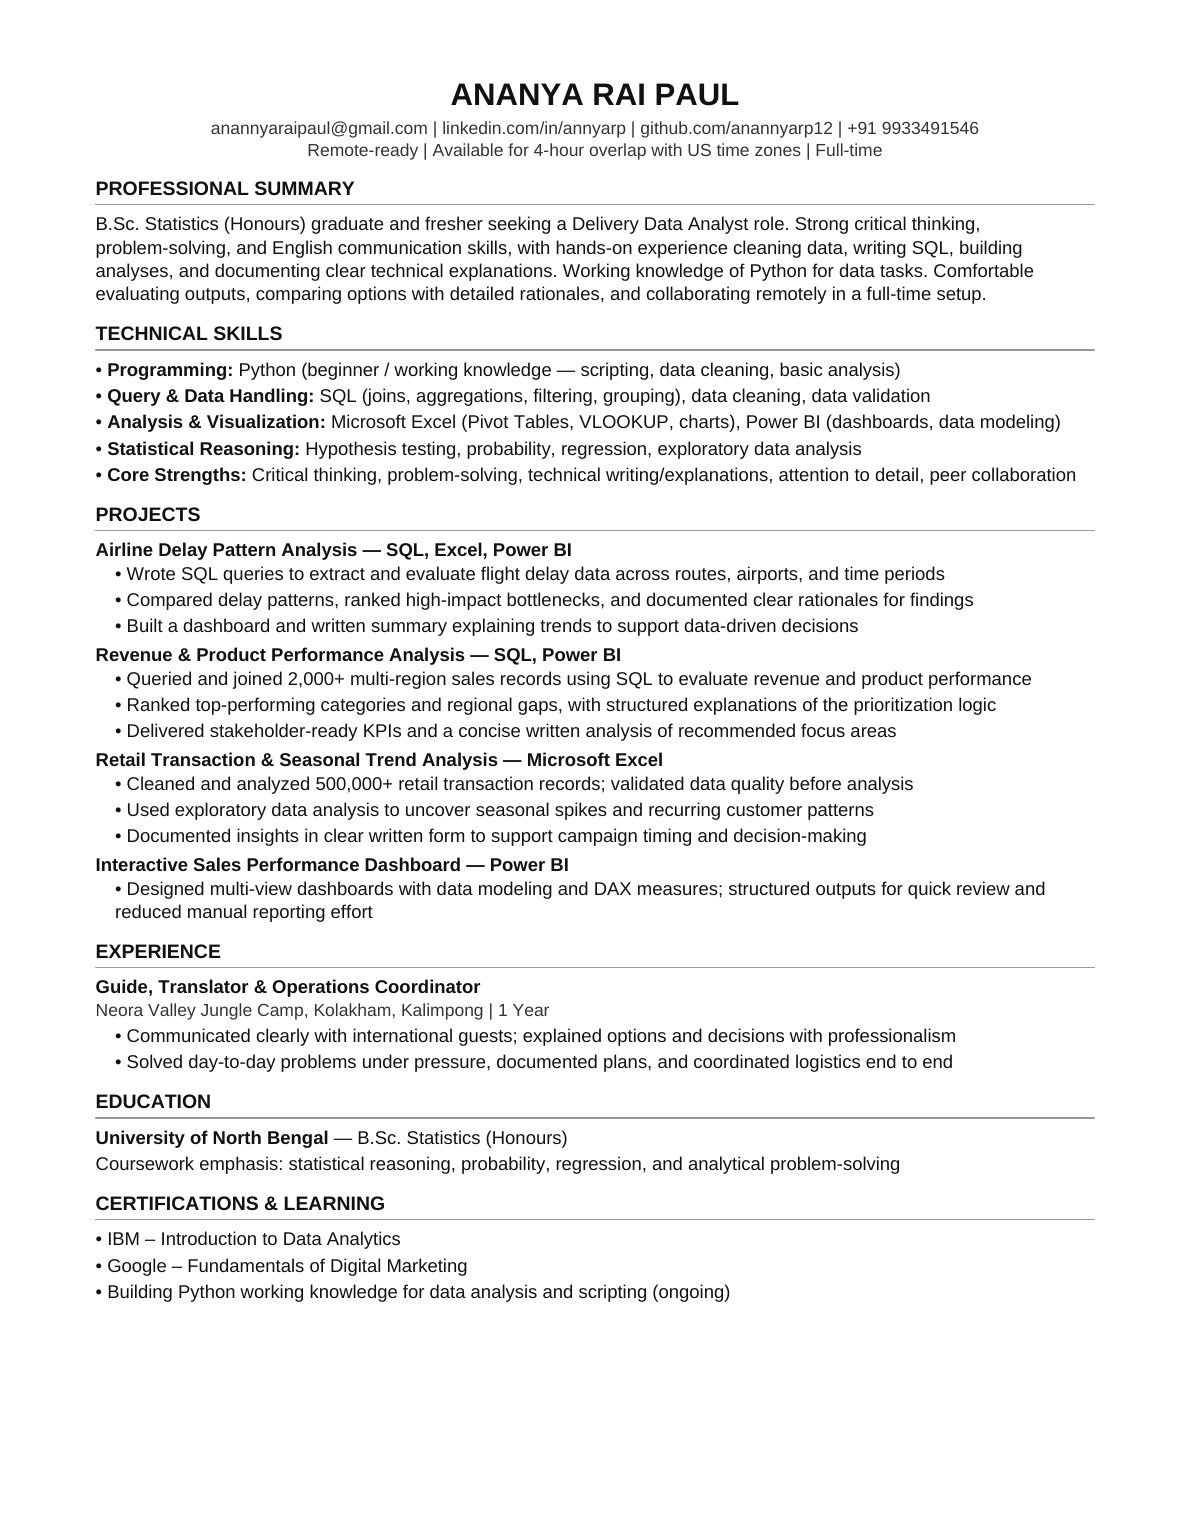
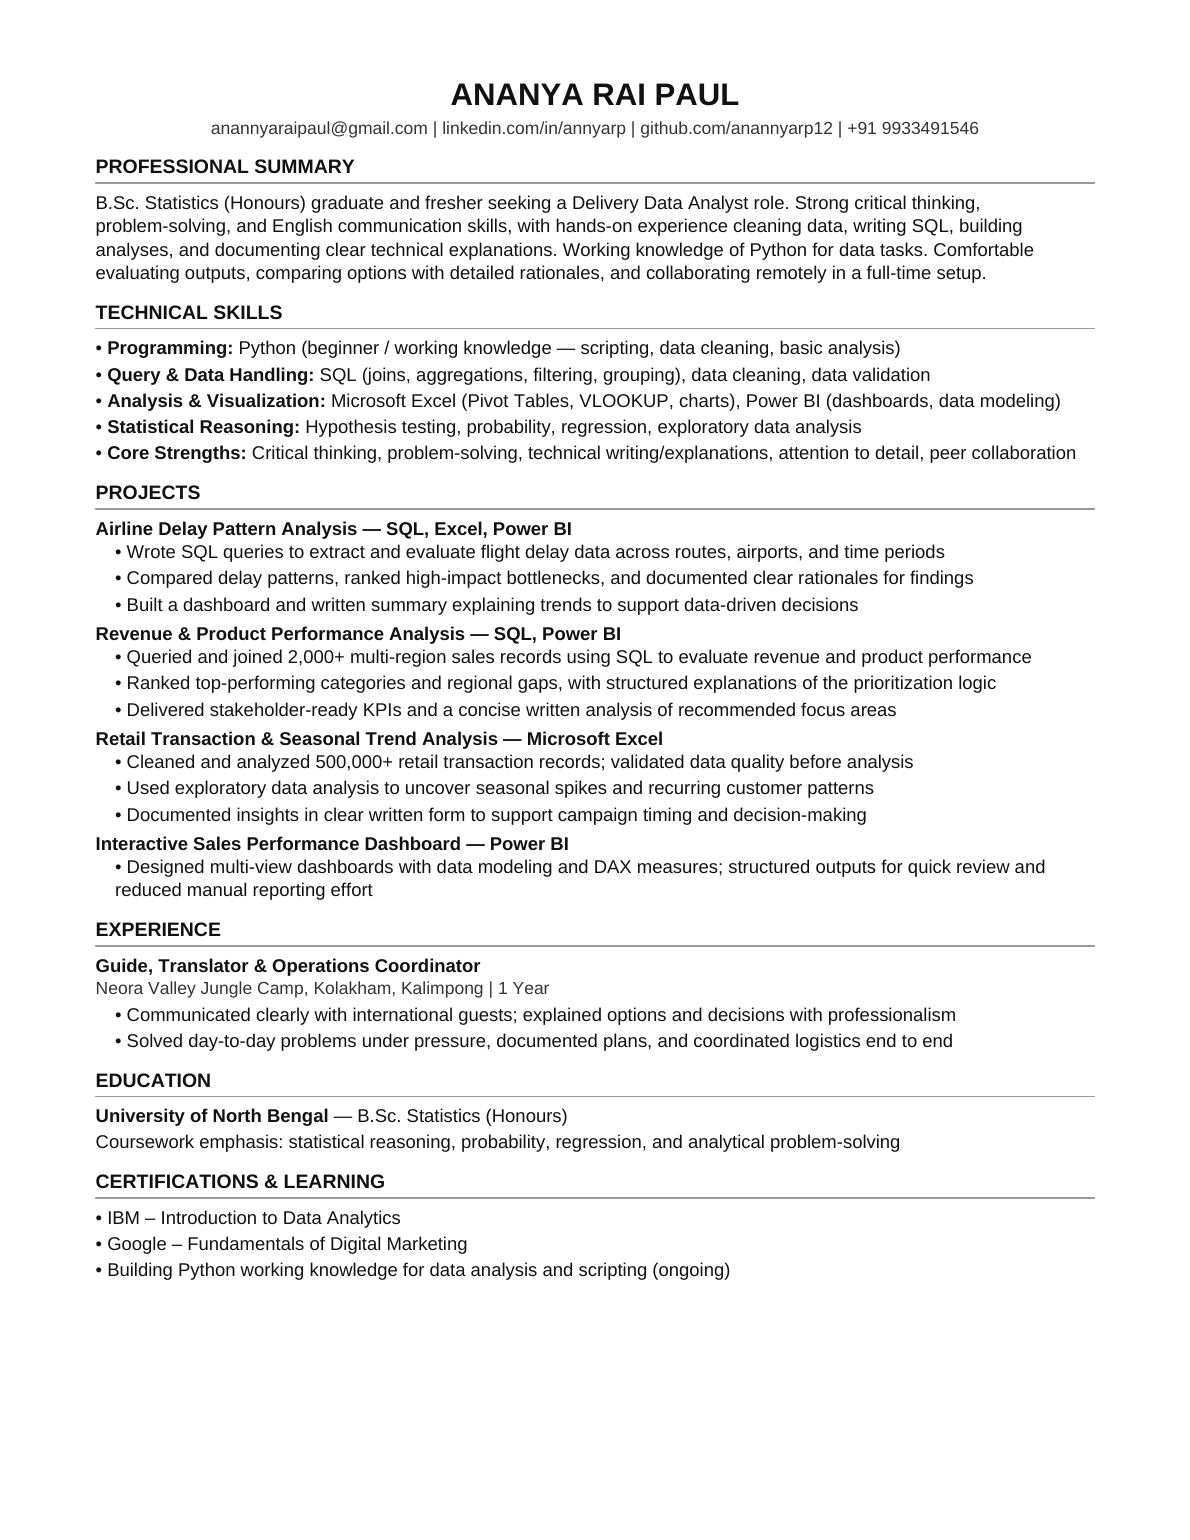
Remove US overlap line from Turing resume header
Keep contact details only under the name for a cleaner header.

Changed region(s): [[0.0622, 0.0935, 0.9017, 0.8416]]

diff --git a/resume/generate_turing_resume.py b/resume/generate_turing_resume.py
@@ -52,8 +52,7 @@ def build():
     story.append(Paragraph("ANANYA RAI PAUL", st["Name"]))
     story.append(
         Paragraph(
-            "anannyaraipaul@gmail.com | linkedin.com/in/annyarp | github.com/anannyarp12 | +91 9933491546<br/>"
-            "Remote-ready | Available for 4-hour overlap with US time zones | Full-time",
+            "anannyaraipaul@gmail.com | linkedin.com/in/annyarp | github.com/anannyarp12 | +91 9933491546",
             st["Contact"],
         )
     )

diff --git a/resume/Ananya_Rai_Paul_Resume_Turing.md b/resume/Ananya_Rai_Paul_Resume_Turing.md
@@ -1,7 +1,6 @@
 # Ananya Rai Paul — Resume (Turing Delivery Data Analyst)
 
-anannyaraipaul@gmail.com | linkedin.com/in/annyarp | github.com/anannyarp12 | +91 9933491546  
-Remote-ready | Available for 4-hour overlap with US time zones | Full-time
+anannyaraipaul@gmail.com | linkedin.com/in/annyarp | github.com/anannyarp12 | +91 9933491546
 
 ## Professional Summary
 B.Sc. Statistics (Honours) graduate and fresher seeking a Delivery Data Analyst role. Strong critical thinking, problem-solving, and English communication skills, with hands-on experience cleaning data, writing SQL, building analyses, and documenting clear technical explanations. Working knowledge of Python for data tasks. Comfortable evaluating outputs, comparing options with detailed rationales, and collaborating remotely in a full-time setup.
